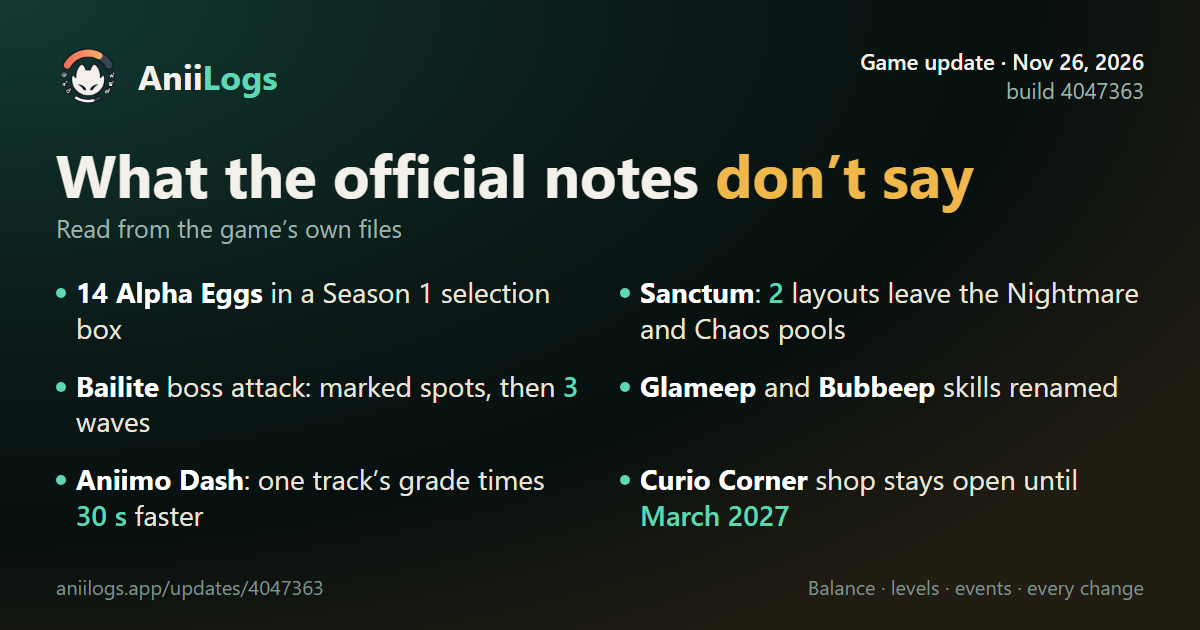
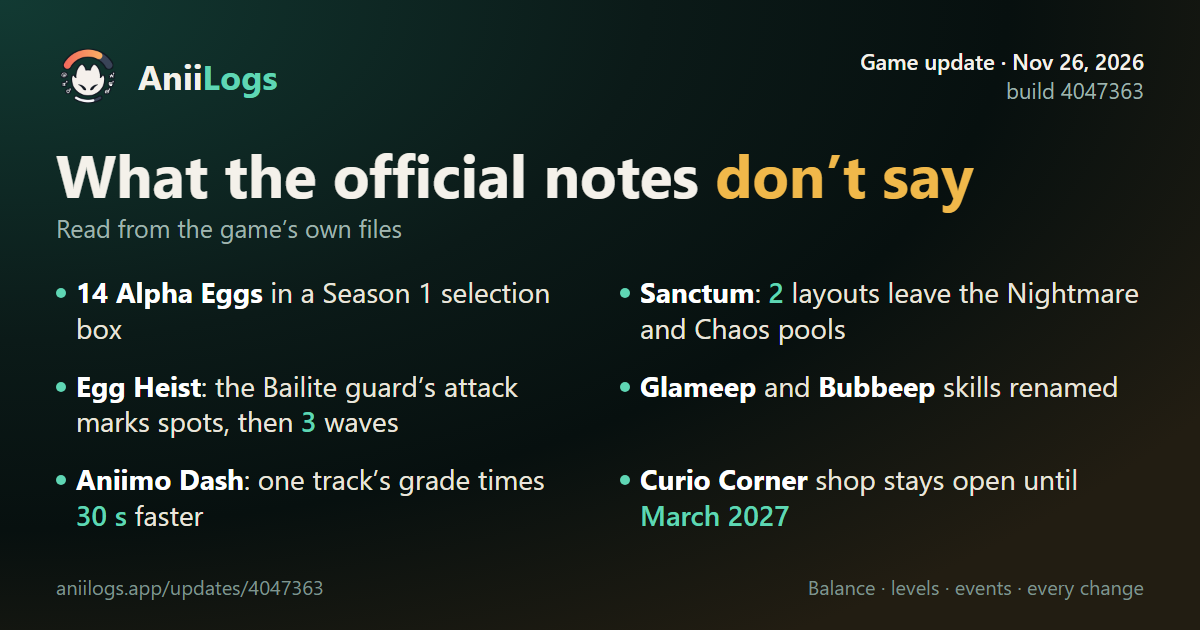
Update 4047363: the changed Bailite attack is the Egg Heist guard's, not a boss (#151)
* Update 4047363: the changed Bailite attack is the Egg Heist guard's (and the Redrock Trail race's), not a boss; card redrawn

* release-review.json re-pinned

---------

Changed region(s): [[0.0617, 0.573, 0.4933, 0.6937]]

diff --git a/public/updates/4047363/index.html b/public/updates/4047363/index.html
@@ -18,7 +18,7 @@
     <meta property="og:title" content="Game update: Departure with the Wind Part 2 (build 4047363) · AniiLogs">
     <meta property="og:description" content="Everything Aniimo’s November 26 update changed (game build 4047363): the official notice checked against the game’s files, the balance changes with their skills and Aniimo, area levels and EXP, new events and story, renames, and how AniiLogs followed.">
     <meta property="og:url" content="https://aniilogs.app/updates/4047363/">
-    <meta property="og:image" content="https://aniilogs.app/updates/4047363/card.png">
+    <meta property="og:image" content="https://aniilogs.app/updates/4047363/card.png?v=2">
     <meta property="og:image:width" content="1200">
     <meta property="og:image:height" content="630">
     <meta property="og:image:alt" content="Aniimo update of November 26, 2026 (build 4047363): what the official notes don’t say">
@@ -180,7 +180,7 @@
 
 <li><strong>Hoptail:</strong> the skill text didn’t change; the trait’s stack is now called [Bounce] (was [Elasticity]) and its state [Bounce Burst] (was [Elastic Burst]).</li>
 <li><strong>Baleetle:</strong> one buff was renumbered and now carries over when you switch Aniimo; the same numbers.</li>
-<li><strong>Bailite</strong> (Rock, as a boss): one of its attacks now marks where it will land first, then sends three waves 2 s apart; the attack lasts 9 s instead of 7.2 s.</li>
+<li><strong>Bailite</strong> (one of the regular, non-boss enemies guarding eggs in Operation: Egg Heist; also placed on the Redrock Trail race track): one of its attacks now marks where it will land first, then sends three waves 2 s apart; the attack lasts 9 s instead of 7.2 s.</li>
 <li><strong>Umbral Geoclaw:</strong> a new animation for its ice prison attack.</li>
 <li>A projectile that is told to disappear during its own hit now disappears after the hit is counted.</li>
 <li>Hypnyto’s Dazzling Prismglare text had the same broken formula as Jaguaraun’s; it now shows a number.</li>
